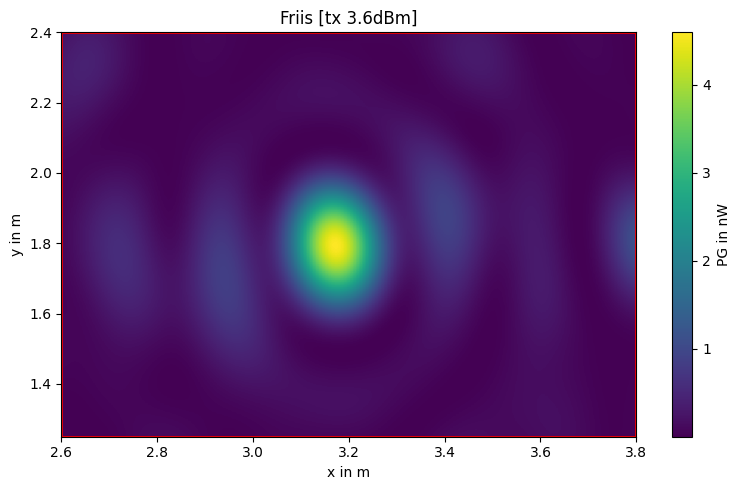
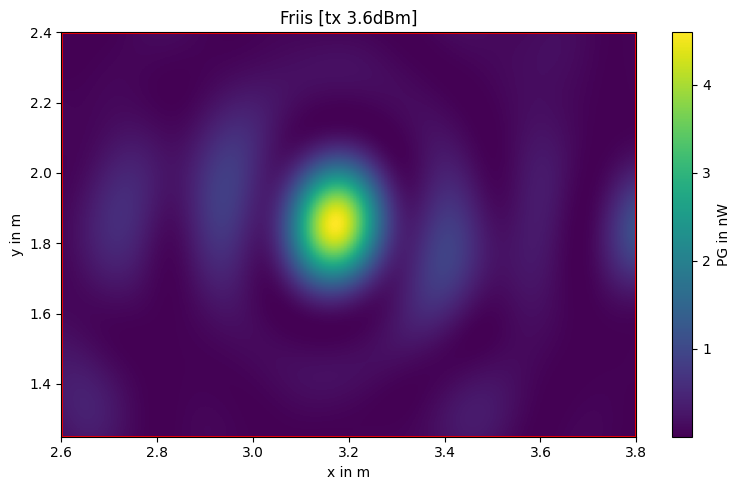
update figs

diff --git a/03_geometry_based_beamforming/031_Friis/processing/beamform.py b/03_geometry_based_beamforming/031_Friis/processing/beamform.py
@@ -142,7 +142,7 @@ print(f"Path Gain at UE is {PG_EN:.2f} dB")
 # Plot scenario
 plt.figure(figsize=(8, 5))
 PG_dB = 10 * np.log10(np.abs(y) ** 2)
-plt.imshow(PG_dB+3.6, extent=[X_MIN, X_MAX, Y_MIN, Y_MAX], origin="lower", aspect="auto")
+plt.imshow(PG_dB+3.6, extent=[X_MIN, X_MAX, Y_MIN, Y_MAX], origin="upper", aspect="auto")
 # plt.plot(p_EN[0], p_EN[1], "bo", markersize=10)
 plt.colorbar(label="Rx power in dBm")
 
@@ -174,7 +174,7 @@ plt.show()
 plt.figure(figsize=(8, 5))
 PG_dB = 10 * np.log10(np.abs(y) ** 2)
 plt.imshow(
-    10**((PG_dB + 3.6)/10)*1000, extent=[X_MIN, X_MAX, Y_MIN, Y_MAX], origin="lower", aspect="auto"
+    10**((PG_dB + 3.6)/10)*1000, extent=[X_MIN, X_MAX, Y_MIN, Y_MAX], origin="upper", aspect="auto"
 )
 # plt.plot(p_EN[0], p_EN[1], "bo", markersize=10)
 plt.colorbar(label="PG in nW")
